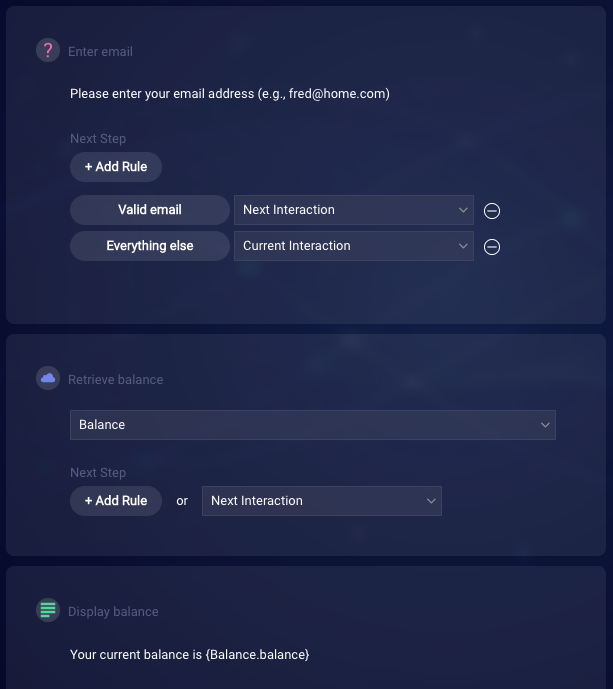
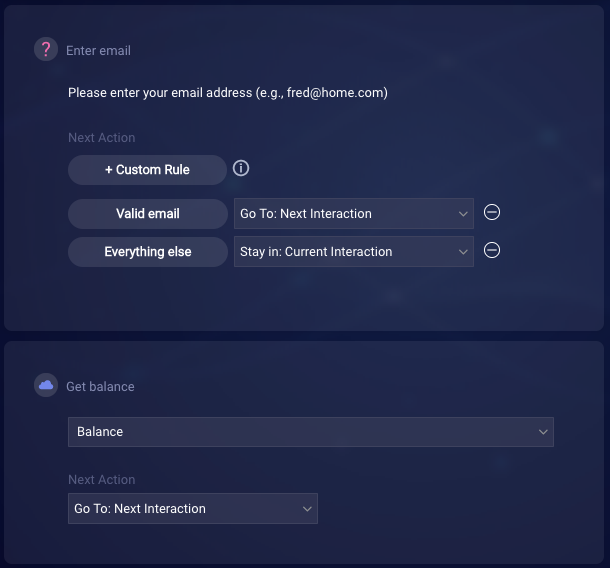
Update topic for Dialog Editor 2.0

diff --git a/pages/documents/ConversationalAI/ConversationBuilder/advanced_use_cases.md b/pages/documents/ConversationalAI/ConversationBuilder/advanced_use_cases.md
@@ -22,8 +22,8 @@ To solve this problem, you can create a rule with a [No Match condition](convers
 **To implement this solution**
 
 1. In the interaction, create a *final* (last) rule.
-2. In the rule definition, name the rule. Then add a condition that uses the "No Match" match type. A condition that uses this match type catches all utterances that aren't caught by earlier rules. (In the condition, you can optionally specify a message to send to the consumer before the flow continues to the next step.)
-3. Under **Continue to**, select the desired next step.
+2. In the rule definition, name the rule. Then add a condition that uses the "No Match" match type. A condition that uses this match type catches all utterances that aren't caught by earlier rules. (In the condition, you can optionally specify a message to send to the consumer before the flow continues to the next action.)
+3. Under **And Go To**, select the desired next action.
 
 In our example below, the No Match condition directs the flow to the current interaction in order to repeat it. This interaction is a question that asks for the consumer's email address.
 
